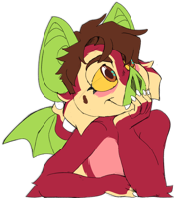
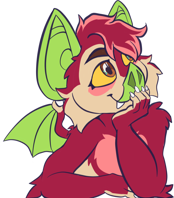
Add redrawn site assets

diff --git a/src/sitemap.html b/src/sitemap.html
@@ -38,11 +38,18 @@ layout: base.njk
         </div>
     </div>
     <hr>
-    <h2 id="other-links">Other links</h2>
-    <ul>
-        <li><a href="/blog/">Blog</a></li>
-        <li><a href="/tos">Terms of Service</a></li>
-        <li><a href="/commission">Commission Me</a></li>
-        <li><a href="/links">Links, Credits, and Resources</a></li>
-    </ul>
+    <div class="flexbox">
+        <div class="left links">
+            <h2 id="other-links">Other links</h2>
+            <ul>
+                <li><a href="/blog/">Blog</a></li>
+                <li><a href="/tos">Terms of Service</a></li>
+                <li><a href="/commission">Commission Me</a></li>
+                <li><a href="/links">Links, Credits, and Resources</a></li>
+            </ul>
+        </div>
+        <div class="right img">
+            <img class="hysonmap" src="/img/sitemap/hysonmap.png">
+        </div>
+    </div>
 </div>

diff --git a/public/sitemap/index.html b/public/sitemap/index.html
@@ -154,13 +154,20 @@
         </div>
     </div>
     <hr>
-    <h2 id="other-links">Other links</h2>
-    <ul>
-        <li><a href="/blog/">Blog</a></li>
-        <li><a href="/tos">Terms of Service</a></li>
-        <li><a href="/commission">Commission Me</a></li>
-        <li><a href="/links">Links, Credits, and Resources</a></li>
-    </ul>
+    <div class="flexbox">
+        <div class="left links">
+            <h2 id="other-links">Other links</h2>
+            <ul>
+                <li><a href="/blog/">Blog</a></li>
+                <li><a href="/tos">Terms of Service</a></li>
+                <li><a href="/commission">Commission Me</a></li>
+                <li><a href="/links">Links, Credits, and Resources</a></li>
+            </ul>
+        </div>
+        <div class="right img">
+            <img class="hysonmap" src="/img/sitemap/hysonmap.png">
+        </div>
+    </div>
 </div>
 
     </div>

diff --git a/public/css/sitemap.css b/public/css/sitemap.css
@@ -2,6 +2,18 @@
     width: 32%;
 }
 
+.hysonmap{
+    width: 60%;
+}
+
+.links, .img{
+    width: 50%;
+}
+
+.img{
+    text-align: center;
+}
+
 
 /* Media query */
 @media only screen and (max-width: 960px) {

diff --git a/src/css/sitemap.css b/src/css/sitemap.css
@@ -2,6 +2,18 @@
     width: 32%;
 }
 
+.hysonmap{
+    width: 60%;
+}
+
+.links, .img{
+    width: 50%;
+}
+
+.img{
+    text-align: center;
+}
+
 
 /* Media query */
 @media only screen and (max-width: 960px) {
